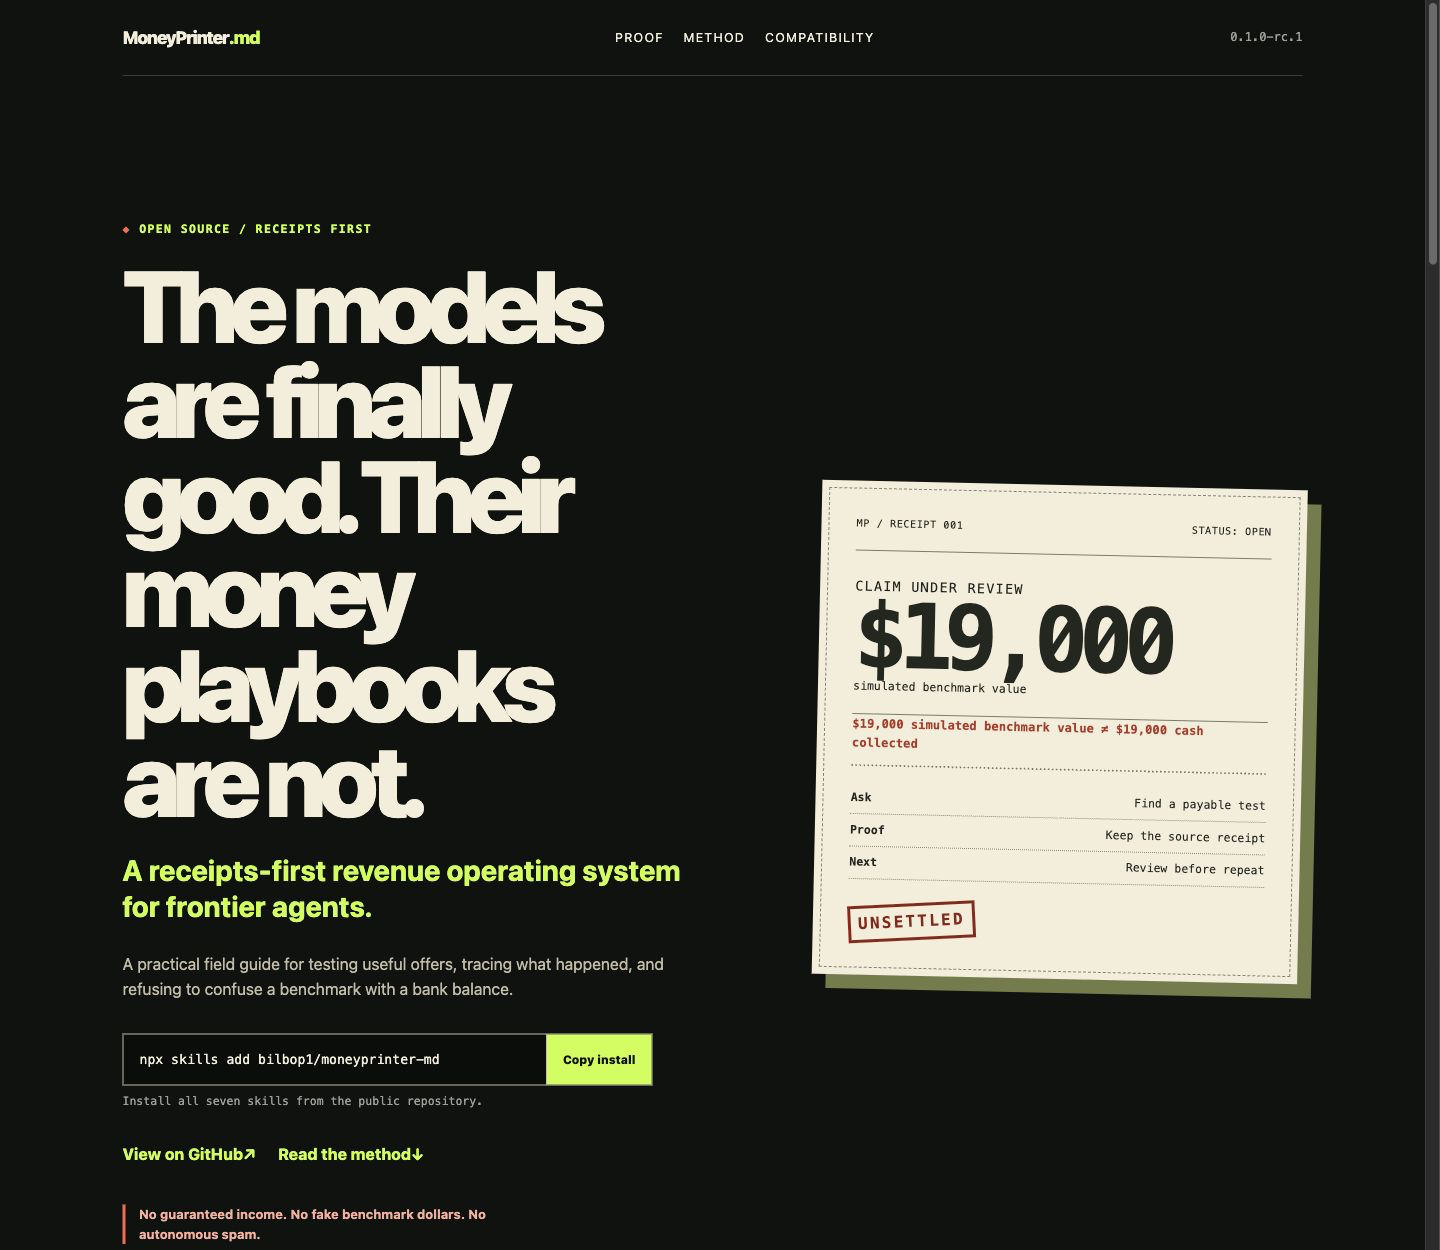
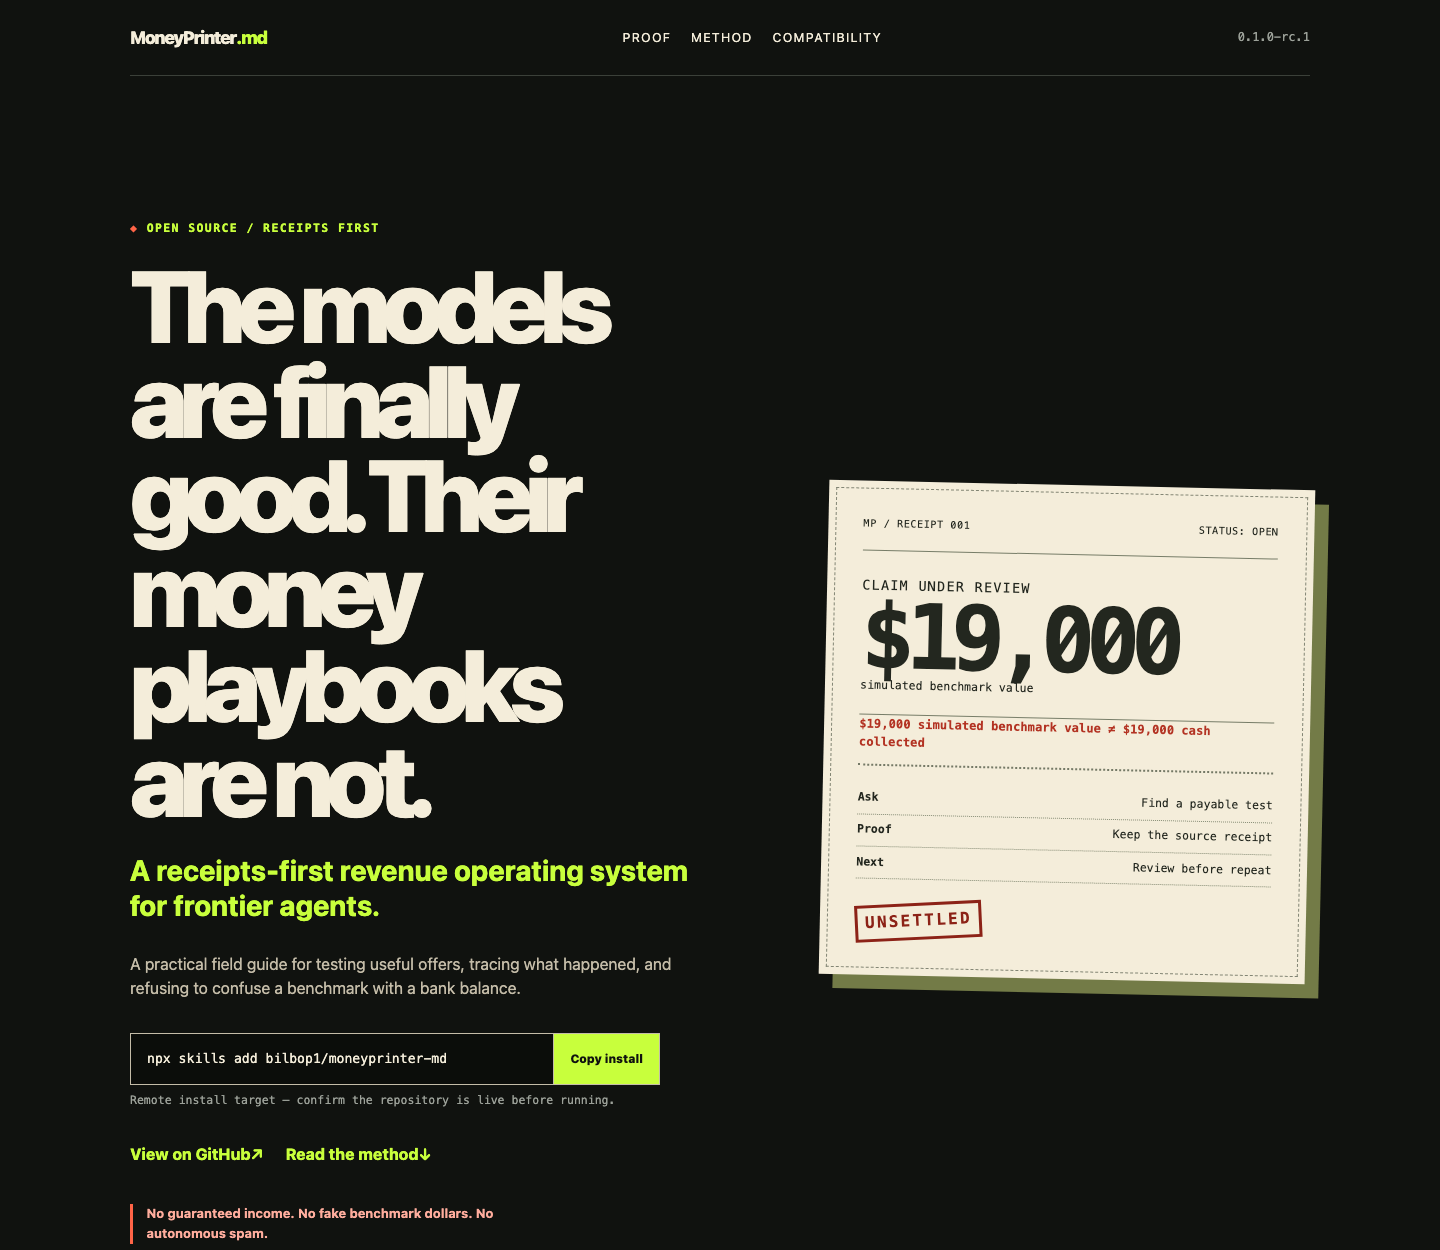
fix: make landing launch state explicit

diff --git a/site/app/page.tsx b/site/app/page.tsx
@@ -69,7 +69,7 @@ export default function Home() {
               <code>{installCommand}</code>
               <button type="button" onClick={copyInstall} aria-label={`${copyLabel}: ${installCommand}`}>{copyLabel}</button>
             </div>
-            <p className="copy-status" aria-live="polite">{copyState === "manual" ? "Clipboard unavailable — the command stays selectable." : copyState === "copied" ? "Command copied to clipboard." : "Install all seven skills from the public repository."}</p>
+            <p className="copy-status" aria-live="polite">{copyState === "manual" ? "Clipboard unavailable — the command stays selectable." : copyState === "copied" ? "Command copied to clipboard." : "Remote install target — confirm the repository is live before running."}</p>
             <div className="hero-controls">
               <a className="text-control" href={repositoryUrl} target="_blank" rel="noreferrer">View on GitHub <span aria-hidden="true">↗</span></a>
               <a className="text-control" href="#method">Read the method <span aria-hidden="true">↓</span></a>
@@ -110,7 +110,7 @@ export default function Home() {
 
         <section id="compatibility" className="section-shell compatibility" aria-labelledby="compatibility-title">
           <div><p className="section-label">05 / PORTABILITY IS A CLAIM TOO</p><h2 id="compatibility-title">Installable is not activated.</h2><p>The portable core is installer-documented but host activation remains unverified. MiniMax is provider-only. Treat every host-specific claim as a receipt waiting to happen.</p></div>
-          <div className="matrix" role="table" aria-label="Compatibility matrix"><div className="matrix-row matrix-head" role="row"><span role="columnheader">Surface</span><span role="columnheader">State</span><span role="columnheader">Meaning</span></div><div className="matrix-row" role="row"><span role="cell">Portable core</span><span role="cell" className="signal">Installer-documented</span><span role="cell">Public GitHub installer command is provided.</span></div><div className="matrix-row" role="row"><span role="cell">Host activation</span><span role="cell" className="warning">Unverified</span><span role="cell">Do not imply it works everywhere.</span></div><div className="matrix-row" role="row"><span role="cell">MiniMax</span><span role="cell" className="warning">Provider-only</span><span role="cell">Not a general compatibility promise.</span></div></div>
+          <div className="matrix" role="table" aria-label="Compatibility matrix"><div className="matrix-row matrix-head" role="row"><span role="columnheader">Surface</span><span role="columnheader">State</span><span role="columnheader">Meaning</span></div><div className="matrix-row" role="row"><span role="cell">Portable core</span><span role="cell" className="signal">Installer-documented</span><span role="cell">GitHub installer route is documented; live-public verification is pending.</span></div><div className="matrix-row" role="row"><span role="cell">Host activation</span><span role="cell" className="warning">Unverified</span><span role="cell">Do not imply it works everywhere.</span></div><div className="matrix-row" role="row"><span role="cell">MiniMax</span><span role="cell" className="warning">Provider-only</span><span role="cell">Not a general compatibility promise.</span></div></div>
         </section>
 
         <section id="method" className="section-shell method-section" aria-labelledby="method-title">
